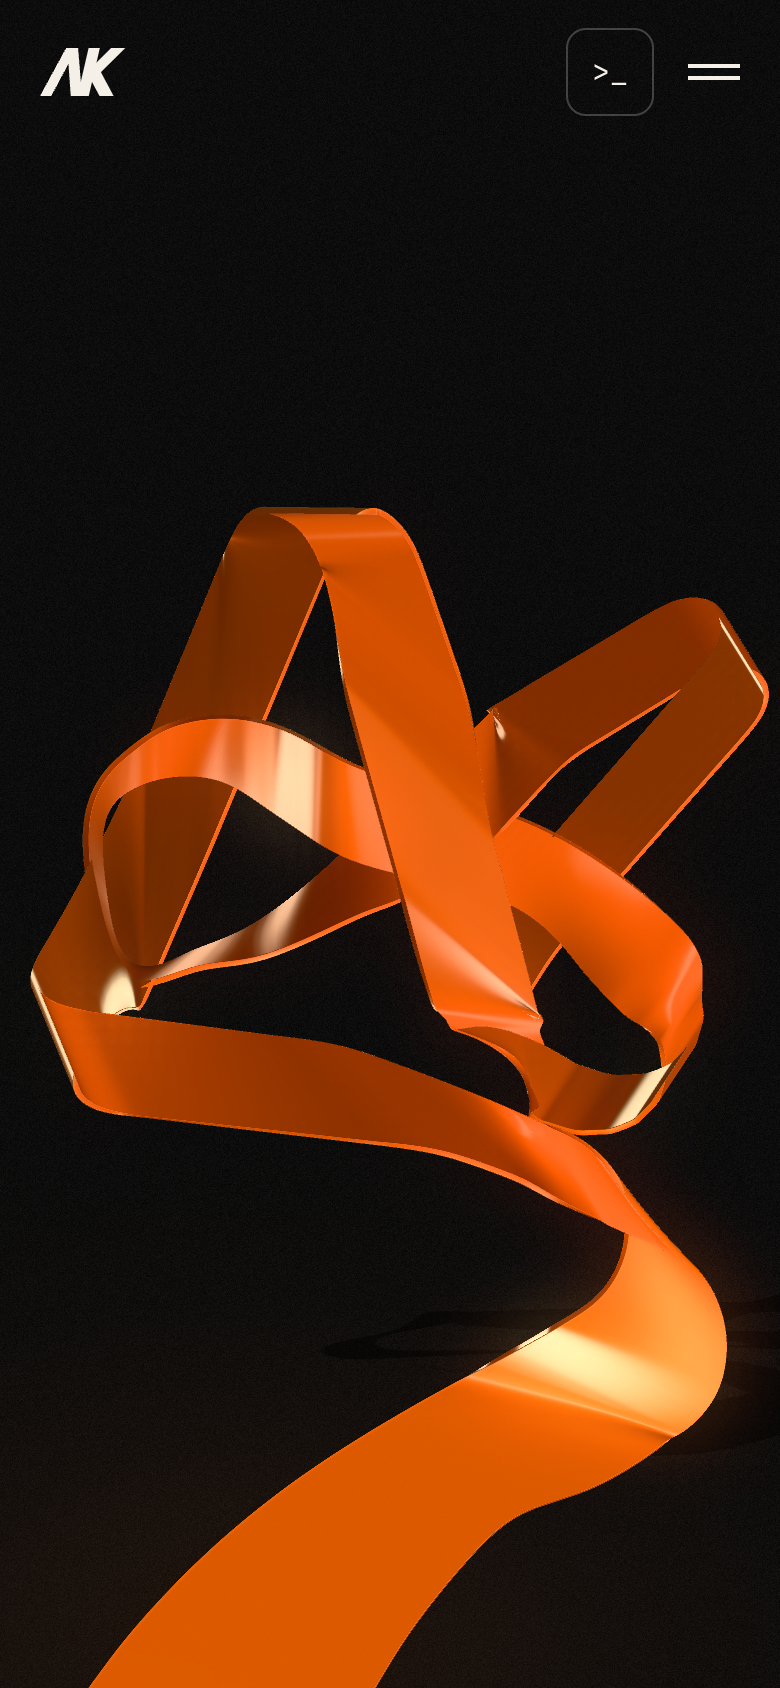
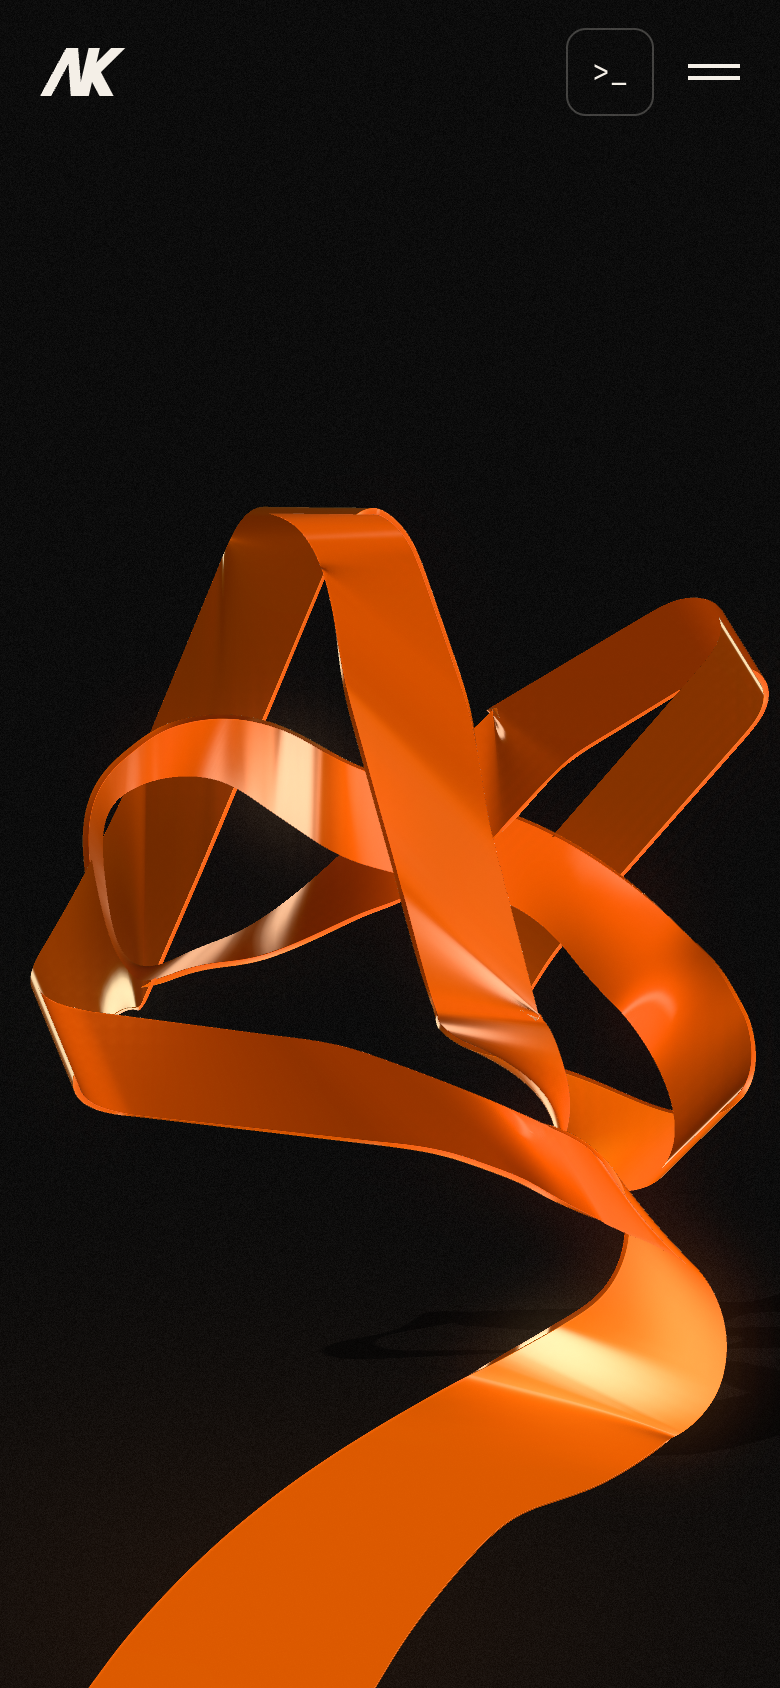
feat(curve): bottom-K loop refit, 120-point ring, depth ramp: r36 = new best

Changed region(s): [[0.5538, 0.5545, 0.9846, 0.7085]]

diff --git a/scripts/curve/rotosurf.py b/scripts/curve/rotosurf.py
@@ -421,6 +421,12 @@ zL, zR = zc - dz / 2, zc + dz / 2
 if os.environ.get("BK_RING", "1") == "1":  # experimental (r11: the 12-ring fade fights the trace pairs; ring arc != interval 7 extent)
     rf = json.load(open(os.path.join(HERE, "..", "..", "docs", "ribbon", "turns", "curve", "ringfit.json")))
     Rr_, tau, al = rf["R"], rf["tau"], rf["alpha"]
+    # r36 defaults: refit ring (bigger, flatter), 120-point sampling, depth ramp to the K band; r35 = BK_RF= BK_NPTS= BK_WSCALE=1 BK_TURN=0.3 BK_FADE=3 BK_ZRAMP=
+    if os.environ.get("BK_RF", "72.155,2.1885,0.7960"):  # "R,tau,alpha": regenerate the ring's points for another ring (R css, tau rad, alpha rad) instead of ringfit.json's
+        Rr_, tau, al = (float(v) for v in os.environ.get("BK_RF", "72.155,2.1885,0.7960").split(","))
+    if os.environ.get("BK_RF", "72.155,2.1885,0.7960") or os.environ.get("BK_NPTS", "120"):  # BK_NPTS=N: sample the ring at N points (default 120; 12 = a 12-sided polygon after the linear interp below)
+        sys.path.insert(0, HERE); import ringmod
+        rf["pts"] = [[q[0][0] * 2.185, q[0][1] * 2.185, q[1]] for q in ringmod.build((Rr_, tau, al), int(os.environ.get("BK_NPTS", "120") or 12))[0]]
     a_ = np.array([math.cos(al), math.sin(al), 0.0]); ap_ = np.array([-math.sin(al), math.cos(al), 0.0])
     # ring in screen-css xy (y down) + depth: p(th) = R (cos th a + sin th (cos tau ap + sin tau z))
     e2 = math.cos(tau) * ap_ + np.array([0, 0, math.sin(tau)])
@@ -431,6 +437,15 @@ if os.environ.get("BK_RING", "1") == "1":  # experimental (r11: the 12-ring fade
     tq = np.linspace(0, 1, len(idx)); tp = np.linspace(0, 1, len(Pc))
     cen = np.stack([np.interp(tq, tp, Pc[:, k]) for k in range(3)], 1)
     cen[:, 2] += zc[idx[0]] - cen[0, 2]
+    if os.environ.get("BK_ZRAMP", "smooth"):  # lin|smooth|late: a depth offset along the ring (0 at its start) so its END lands on the pre-ring centre depth at the exit ring (what the BK fade blends toward); applied to cen, so both edges shift equally
+        _zm = os.environ.get("BK_ZRAMP", "smooth")
+        _tt = np.linspace(0, 1, len(idx))
+        _ss = lambda x: x * x * (3 - 2 * x)
+        _g = {"lin": _tt, "smooth": _ss(_tt), "late": _ss(np.clip((_tt - 0.3) / 0.7, 0, 1))}[_zm]
+        _tgt = float((zL[idx[-1]] + zR[idx[-1]]) / 2)
+        _zb = float(cen[-1, 2])
+        cen[:, 2] += (_tgt - _zb) * _g
+        print("  BK_ZRAMP %s: exit z %.1f -> %.1f (target %.1f)" % (_zm, _zb, float(cen[-1, 2]), _tgt))
     # the band's width direction = the axis; sign so L -> R matches the incoming trace ring
     # sign from the EXIT (the K band's edge order); the ruling turns from the right leg's own ruling into the ring's axis over
     # the first part of the loop (the roll at the leg's foot), then stays on the axis (a cylinder band) to the exit
@@ -438,8 +453,8 @@ if os.environ.get("BK_RING", "1") == "1":  # experimental (r11: the 12-ring fade
     ax = axis if ax_sign(axis, trE) else -axis
     i0 = idx[0]
     r0v = np.array([(R2[i0, 0] - L2[i0, 0]) / SX, (R2[i0, 1] - L2[i0, 1]) / SY, zR[i0] - zL[i0]]); r0v /= np.linalg.norm(r0v)
-    hw = W_CSS / 2 * float(os.environ.get('BK_WSCALE', 1.0))
-    tin = float(os.environ.get('BK_TURN', 0.3))
+    hw = W_CSS / 2 * float(os.environ.get('BK_WSCALE', 1.297))
+    tin = float(os.environ.get('BK_TURN', 0.409))
     rul = []
     for t in tq:
         f = min(1.0, t / tin); f = f * f * (3 - 2 * f)
@@ -447,7 +462,7 @@ if os.environ.get("BK_RING", "1") == "1":  # experimental (r11: the 12-ring fade
         rul.append(v / np.linalg.norm(v))
     rul = np.array(rul)
     Lc, Rc = cen - rul * hw, cen + rul * hw
-    fd = np.minimum(1.0, np.minimum(np.arange(len(idx)) / float(os.environ.get('BK_FADE', 3)), np.arange(len(idx))[::-1] / float(os.environ.get('BK_FADE_OUT', 25))))
+    fd = np.minimum(1.0, np.minimum(np.arange(len(idx)) / float(os.environ.get('BK_FADE', 10)), np.arange(len(idx))[::-1] / float(os.environ.get('BK_FADE_OUT', 25))))
     fd = fd * fd * (3 - 2 * fd)
     for j, i in enumerate(idx):
         f = fd[j]

diff --git a/scripts/curve/ringmod.py b/scripts/curve/ringmod.py
@@ -1,0 +1,22 @@
+"""The tilted-ring model of ringfit.py (build() only, without its optimiser), so rotosurf.py can regenerate the bottom-K loop
+for a given (R, tau, alpha) override (env BK_RF=R,tau,alpha). Same maths as ringfit.build; also returns the ring centre C."""
+import math, json, numpy as np
+K=2.185
+L1p,L1d=np.array([531,1105])/K,np.array([0.244,0.970])
+L2p,L2d=np.array([553,937])/K,np.array([-0.79,-0.61]); L2d=L2d/np.linalg.norm(L2d)
+def ring(R,tau,al,sgn=1):
+    a=np.array([math.cos(al),math.sin(al)]); ap=np.array([-a[1],a[0]])
+    def p(th): return R*(math.cos(th)*a+math.sin(th)*math.cos(tau)*ap), R*math.sin(th)*math.sin(tau)*sgn
+    def t(th):
+        v=R*(-math.sin(th)*a+math.cos(th)*math.cos(tau)*ap); return v/np.linalg.norm(v)
+    return p,t
+def solve_theta(t,d):
+    ths=np.linspace(0,2*math.pi,3601); return ths[int(np.argmax([t(x)@d for x in ths]))]
+def build(v,n=12):
+    R,tau,al=v; p,t=ring(R,tau,al); th0,th1=solve_theta(t,L1d),solve_theta(t,L2d)
+    if th1<=th0: th1+=2*math.pi
+    D=p(th1)[0]-p(th0)[0]
+    c=lambda w: w[0]*L2d[1]-w[1]*L2d[0]
+    s=-c(L1p+D-L2p)/c(L1d); Ein=L1p+s*L1d; C=Ein-p(th0)[0]
+    pts=[(C+p(th)[0],p(th)[1]) for th in np.linspace(th0,th1,n)]
+    return pts,th0,th1,s,C

diff --git a/docs/ribbon/turns/STATUS.md b/docs/ribbon/turns/STATUS.md
@@ -235,3 +235,9 @@ Fresh session after the Mac reset. The env is rebuilt and r23 reproduces byte-id
 ## 2026-10-09: S→F dent (A): open, three approaches rejected
 - The S and F sources never agree in their overlap (rings 211..243): ≥ 14 px (R) / ≥ 38 px (L) apart, ruling angles diverging up to 88°. The stage-a trace is smooth there but 40–90 px from both (F's L edge ~90–95 px off the trace all along rings 211..260: F looks ~18 rings out of phase with the trace at its S end, the same index-phase problem the S had).
 - Rejected: `ALIGN_ENDS=F:lo` (resamples F's interior, kinks at rings 288–290); a short crossfade centred on the best-agreement ring (`SF_FADE`, a hard depth crease at 210/211); fading both into the trace (`SF_TRACE`, R-edge turns up to 83°). Next idea: align F's phase by arclength over ONLY its first ~40 rings, blending back to F's own index mapping by ring ~270, and find out why full F alignment kinked at 288–290 first.
+
+## 2026-10-09: r36 = new best (the bottom-K loop: bigger, round, smooth)
+- Diagnosis: the loop missed 40% of the mockup's loop area (a crescent at its right and bottom); ringfit.py fitted the ring to the trace CENTRELINE only, so it was too small and too steeply tilted. The ring was also sampled at only 12 points and linearly interpolated over ~106 rings: a 12-sided POLYGON, whose vertices were the creases and whose flat facet was the bright flat strip. And it was seated in depth only at its start, so it reached the K band ~150 z too near the camera and the exit fade made a crease.
+- Fix (new defaults): `BK_RF=72.155,2.1885,0.7960` (R 72 css ≈ 1.4 W, tilt 125°, from a silhouette fit), `BK_WSCALE=1.297`, `BK_TURN=0.409`, `BK_NPTS=120` (ring maths in scripts/curve/ringmod.py), `BK_FADE=10` (removes the entry kink), `BK_ZRAMP=smooth` (a smoothstep depth ramp so the ring ends at the K band's depth). Loop-box IoU vs the mockup 0.67 → 0.84, no clearance violations, the far wall consistently behind the near wall.
+- Rejected: widening alone (BK_WSCALE up to 2.5: IoU 0.71), BK_TURN_OUT (ruling already agrees at the exit), K8_Z_MATCH (moves the depth step instead of removing it), BK_ZRAMP=late (dN 28 at ring 720).
+- Remaining at the loop: the entry where it leaves the right leg's foot (rings 659–690) is a tangent junction with dz ≈ 0 (no 2T margin), as before.

diff --git a/docs/ribbon/RESUME.md b/docs/ribbon/RESUME.md
@@ -5,7 +5,7 @@ Read this first, then `docs/ribbon/turns/STATUS.md` (latest sections) and `docs/
 ## Where the work is
 - Branch: **`claude/upbeat-hellman-f92bb7`** on origin (pushed 2026-10-08 at the owner's request before the reset). It is `rebrand/ribbon` plus all of this session's work. Restore: `git clone`, then `git checkout claude/upbeat-hellman-f92bb7`, then `npm install`, then recreate the venv (below).
 - `ak-hero.json` is NOT changed: swapping in a pose needs the owner's OK.
-- **Current best AK: `docs/ribbon/turns/curve/best/pose.json`** (= **r35**, 2026-10-09: r23 + the arclength-aligned S splice (`ALIGN=1 ALIGN_SECS=S`) + equal-fraction S ruling pairing (`EQS=125:230 EQS_RAMP=20`) + the crossbar re-keyed in front of the left leg (`XB_Z=70 ZCON="880:945>3,4:16"`); see STATUS.md 2026-10-09). r23 = `ALIGN=0 EQS= XB_Z=6 ZCON=`.
+- **Current best AK: `docs/ribbon/turns/curve/best/pose.json`** (= **r36**, 2026-10-09: r23 + the arclength-aligned S splice (`ALIGN=1 ALIGN_SECS=S`) + equal-fraction S ruling pairing (`EQS=125:230 EQS_RAMP=20`) + the crossbar re-keyed in front of the left leg (`XB_Z=70 ZCON="880:945>3,4:16"`) + the refit, smooth bottom-K ring (BK_RF/BK_NPTS=120/BK_ZRAMP=smooth); see STATUS.md 2026-10-09). r23 = `ALIGN=0 EQS= XB_Z=6 ZCON=`.
   - Build it with `scripts/curve/rotosurf.py best`.
 
 ## The approach that finally works: `scripts/curve/rotosurf.py`
